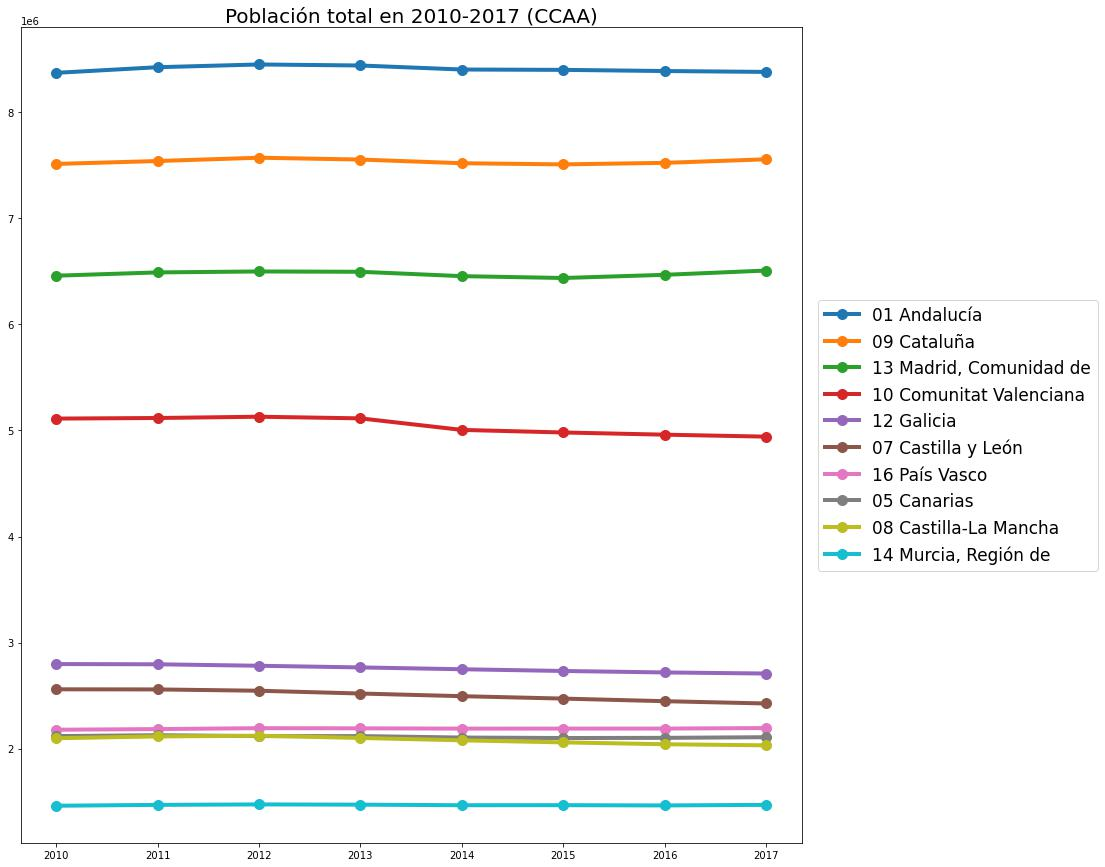
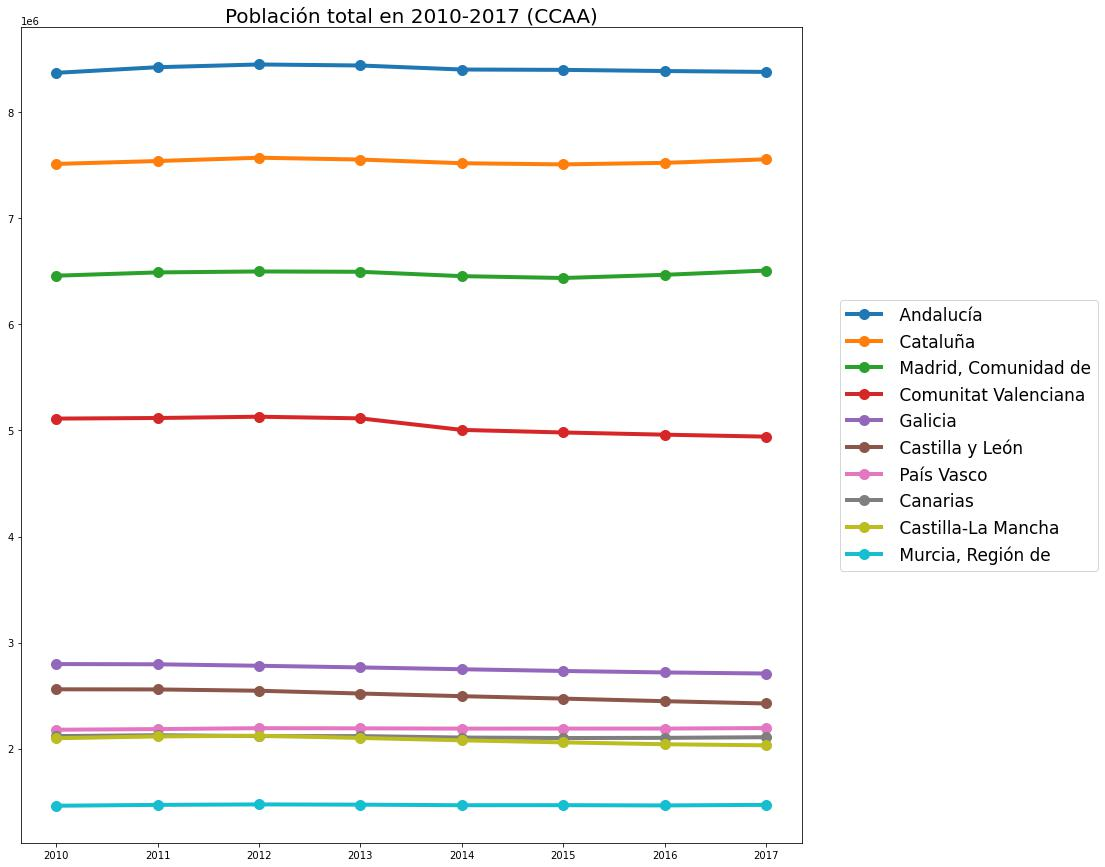
Minor changes in funciones: added margin in insert images function

Changed region(s): [[0.7385, 0.3426, 0.9846, 0.654]]

diff --git a/practicas/p1/poblacion/resultados/variacionComAutonomas.html b/practicas/p1/poblacion/resultados/variacionComAutonomas.html
@@ -14,4 +14,4 @@
         </th></tr><tr><tr><th scope="col"></th><th scope="col" colspan=7>
         Hombres</th><th scope="col" colspan=7>Mujeres</th>
         <th scope="col" colspan=7>Hombres</th>
-        <th scope="col" colspan=7>Mujeres</th></tr><tr><tr><th scope="col">Provincia</th><th>2017</th><th>2016</th><th>2015</th><th>2014</th><th>2013</th><th>2012</th><th>2011</th><th>2017</th><th>2016</th><th>2015</th><th>2014</th><th>2013</th><th>2012</th><th>2011</th><th>2017</th><th>2016</th><th>2015</th><th>2014</th><th>2013</th><th>2012</th><th>2011</th><th>2017</th><th>2016</th><th>2015</th><th>2014</th><th>2013</th><th>2012</th><th>2011</th><tr><th scope="row">01 Andalucía</th><td>-5,359.00</td><td>-5,338.00</td><td>-4,169.00</td><td>-21,953.00</td><td>-9,631.00</td><td>10,651.00</td><td>24,778.00</td><td>-2,928.00</td><td>-5,598.00</td><td>907.00</td><td>-16,042.00</td><td>-54.00</td><td>15,232.00</td><td>28,349.00</td><td>-0.13</td><td>-0.13</td><td>-0.10</td><td>-0.53</td><td>-0.23</td><td>0.26</td><td>0.60</td><td>-0.07</td><td>-0.13</td><td>0.02</td><td>-0.38</td><td>-0.00</td><td>0.36</td><td>0.67</td></tr><tr><th scope="row">09 Cataluña</th><td>12,832.00</td><td>5,623.00</td><td>-9,995.00</td><td>-23,578.00</td><td>-16,310.00</td><td>9,432.00</td><td>7,681.00</td><td>20,402.00</td><td>8,867.00</td><td>-802.00</td><td>-11,169.00</td><td>-948.00</td><td>21,858.00</td><td>19,556.00</td><td>0.35</td><td>0.15</td><td>-0.27</td><td>-0.63</td><td>-0.44</td><td>0.25</td><td>0.21</td><td>0.53</td><td>0.23</td><td>-0.02</td><td>-0.29</td><td>-0.02</td><td>0.57</td><td>0.52</td></tr><tr><th scope="row">13 Madrid, Comunidad de</th><td>16,891.00</td><td>11,609.00</td><td>-12,619.00</td><td>-24,083.00</td><td>-6,517.00</td><td>-2,603.00</td><td>8,406.00</td><td>23,297.00</td><td>18,391.00</td><td>-4,825.00</td><td>-17,028.00</td><td>3,508.00</td><td>11,483.00</td><td>22,590.00</td><td>0.55</td><td>0.38</td><td>-0.41</td><td>-0.77</td><td>-0.21</td><td>-0.08</td><td>0.27</td><td>0.69</td><td>0.55</td><td>-0.14</td><td>-0.51</td><td>0.10</td><td>0.34</td><td>0.68</td></tr><tr><th scope="row">10 Comunitat Valenciana</th><td>-12,545.00</td><td>-12,057.00</td><td>-14,276.00</td><td>-59,458.00</td><td>-11,865.00</td><td>4,624.00</td><td>-1,169.00</td><td>-5,914.00</td><td>-8,664.00</td><td>-9,879.00</td><td>-49,513.00</td><td>-3,586.00</td><td>7,452.00</td><td>6,653.00</td><td>-0.51</td><td>-0.49</td><td>-0.58</td><td>-2.35</td><td>-0.47</td><td>0.18</td><td>-0.05</td><td>-0.24</td><td>-0.34</td><td>-0.39</td><td>-1.92</td><td>-0.14</td><td>0.29</td><td>0.26</td></tr><tr><th scope="row">12 Galicia</th><td>-5,417.00</td><td>-7,245.00</td><td>-8,603.00</td><td>-9,465.00</td><td>-8,206.00</td><td>-6,263.00</td><td>-956.00</td><td>-4,769.00</td><td>-6,577.00</td><td>-7,745.00</td><td>-7,780.00</td><td>-7,352.00</td><td>-7,661.00</td><td>-1,275.00</td><td>-0.41</td><td>-0.55</td><td>-0.65</td><td>-0.71</td><td>-0.61</td><td>-0.46</td><td>-0.07</td><td>-0.34</td><td>-0.46</td><td>-0.54</td><td>-0.54</td><td>-0.51</td><td>-0.53</td><td>-0.09</td></tr><tr><th scope="row">07 Castilla y León</th><td>-11,524.00</td><td>-12,841.00</td><td>-12,634.00</td><td>-14,127.00</td><td>-14,764.00</td><td>-6,530.00</td><td>-1,189.00</td><td>-10,194.00</td><td>-11,692.00</td><td>-10,104.00</td><td>-10,958.00</td><td>-11,439.00</td><td>-5,855.00</td><td>137.00</td><td>-0.95</td><td>-1.05</td><td>-1.03</td><td>-1.13</td><td>-1.17</td><td>-0.52</td><td>-0.09</td><td>-0.82</td><td>-0.93</td><td>-0.80</td><td>-0.86</td><td>-0.89</td><td>-0.45</td><td>0.01</td></tr><tr><th scope="row">16 País Vasco</th><td>1,325.00</td><td>-345.00</td><td>-444.00</td><td>-2,377.00</td><td>-1,692.00</td><td>3,566.00</td><td>2,164.00</td><td>3,299.00</td><td>622.00</td><td>716.00</td><td>-320.00</td><td>281.00</td><td>4,921.00</td><td>4,103.00</td><td>0.12</td><td>-0.03</td><td>-0.04</td><td>-0.22</td><td>-0.16</td><td>0.33</td><td>0.20</td><td>0.29</td><td>0.06</td><td>0.06</td><td>-0.03</td><td>0.03</td><td>0.44</td><td>0.37</td></tr><tr><th scope="row">05 Canarias</th><td>2,275.00</td><td>-365.00</td><td>-3,170.00</td><td>-8,929.00</td><td>-938.00</td><td>-5,351.00</td><td>2,885.00</td><td>3,922.00</td><td>1,983.00</td><td>-1,339.00</td><td>-4,935.00</td><td>1,273.00</td><td>-3,074.00</td><td>5,365.00</td><td>0.22</td><td>-0.03</td><td>-0.30</td><td>-0.85</td><td>-0.09</td><td>-0.50</td><td>0.27</td><td>0.37</td><td>0.19</td><td>-0.13</td><td>-0.46</td><td>0.12</td><td>-0.29</td><td>0.51</td></tr><tr><th scope="row">08 Castilla-La Mancha</th><td>-5,961.00</td><td>-9,951.00</td><td>-11,207.00</td><td>-13,080.00</td><td>-12,688.00</td><td>3,050.00</td><td>7,449.00</td><td>-4,191.00</td><td>-7,609.00</td><td>-8,213.00</td><td>-9,307.00</td><td>-8,202.00</td><td>3,504.00</td><td>9,512.00</td><td>-0.58</td><td>-0.96</td><td>-1.07</td><td>-1.24</td><td>-1.19</td><td>0.29</td><td>0.70</td><td>-0.41</td><td>-0.74</td><td>-0.79</td><td>-0.89</td><td>-0.78</td><td>0.33</td><td>0.92</td></tr><tr><th scope="row">14 Murcia, Región de</th><td>2,683.00</td><td>-1,879.00</td><td>-455.00</td><td>-3,953.00</td><td>-2,885.00</td><td>1,146.00</td><td>2,954.00</td><td>2,743.00</td><td>-562.00</td><td>925.00</td><td>-1,278.00</td><td>485.00</td><td>3,234.00</td><td>5,136.00</td><td>0.37</td><td>-0.26</td><td>-0.06</td><td>-0.53</td><td>-0.39</td><td>0.15</td><td>0.40</td><td>0.38</td><td>-0.08</td><td>0.13</td><td>-0.17</td><td>0.07</td><td>0.44</td><td>0.71</td></tr><tr><th scope="row">02 Aragón</th><td>-1,311.00</td><td>-5,481.00</td><td>-4,277.00</td><td>-13,023.00</td><td>-1,911.00</td><td>612.00</td><td>-1,891.00</td><td>1,498.00</td><td>-3,803.00</td><td>-3,261.00</td><td>-8,742.00</td><td>-406.00</td><td>2,562.00</td><td>1,089.00</td><td>-0.20</td><td>-0.84</td><td>-0.65</td><td>-1.94</td><td>-0.28</td><td>0.09</td><td>-0.28</td><td>0.23</td><td>-0.57</td><td>-0.49</td><td>-1.29</td><td>-0.06</td><td>0.38</td><td>0.16</td></tr><tr><th scope="row">04 Balears, Illes</th><td>4,243.00</td><td>1,004.00</td><td>-123.00</td><td>-4,802.00</td><td>-5,488.00</td><td>2,514.00</td><td>2,373.00</td><td>4,536.00</td><td>1,737.00</td><td>1,160.00</td><td>-3,430.00</td><td>-2,277.00</td><td>3,811.00</td><td>4,692.00</td><td>0.77</td><td>0.18</td><td>-0.02</td><td>-0.87</td><td>-0.98</td><td>0.45</td><td>0.43</td><td>0.82</td><td>0.31</td><td>0.21</td><td>-0.62</td><td>-0.41</td><td>0.69</td><td>0.85</td></tr><tr><th scope="row">11 Extremadura</th><td>-4,179.00</td><td>-2,839.00</td><td>-3,538.00</td><td>-2,438.00</td><td>-2,270.00</td><td>-540.00</td><td>1,143.00</td><td>-3,679.00</td><td>-2,380.00</td><td>-3,097.00</td><td>-1,934.00</td><td>-1,856.00</td><td>-697.00</td><td>1,004.00</td><td>-0.77</td><td>-0.52</td><td>-0.65</td><td>-0.44</td><td>-0.41</td><td>-0.10</td><td>0.21</td><td>-0.67</td><td>-0.43</td><td>-0.56</td><td>-0.35</td><td>-0.33</td><td>-0.12</td><td>0.18</td></tr><tr><th scope="row">03 Asturias, Principado de</th><td>-3,941.00</td><td>-4,323.00</td><td>-5,752.00</td><td>-3,419.00</td><td>-5,074.00</td><td>-2,151.00</td><td>-1,831.00</td><td>-3,707.00</td><td>-4,298.00</td><td>-4,775.00</td><td>-2,990.00</td><td>-4,121.00</td><td>-1,976.00</td><td>-1,023.00</td><td>-0.79</td><td>-0.86</td><td>-1.13</td><td>-0.67</td><td>-0.98</td><td>-0.41</td><td>-0.35</td><td>-0.68</td><td>-0.78</td><td>-0.86</td><td>-0.54</td><td>-0.73</td><td>-0.35</td><td>-0.18</td></tr><tr><th scope="row">15 Navarra, Comunidad Foral de</th><td>831.00</td><td>-45.00</td><td>-601.00</td><td>-2,447.00</td><td>-520.00</td><td>797.00</td><td>2,233.00</td><td>1,756.00</td><td>216.00</td><td>287.00</td><td>-1,240.00</td><td>431.00</td><td>1,718.00</td><td>2,894.00</td><td>0.26</td><td>-0.01</td><td>-0.19</td><td>-0.76</td><td>-0.16</td><td>0.25</td><td>0.70</td><td>0.54</td><td>0.07</td><td>0.09</td><td>-0.38</td><td>0.13</td><td>0.53</td><td>0.91</td></tr><tr><th scope="row">06 Cantabria</th><td>-1,180.00</td><td>-1,800.00</td><td>-1,994.00</td><td>-1,861.00</td><td>-1,356.00</td><td>127.00</td><td>-59.00</td><td>-731.00</td><td>-1,173.00</td><td>-1,483.00</td><td>-1,371.00</td><td>-617.00</td><td>613.00</td><td>930.00</td><td>-0.42</td><td>-0.63</td><td>-0.70</td><td>-0.64</td><td>-0.47</td><td>0.04</td><td>-0.02</td><td>-0.24</td><td>-0.39</td><td>-0.49</td><td>-0.45</td><td>-0.20</td><td>0.20</td><td>0.31</td></tr><tr><th scope="row">17 Rioja, La</th><td>-461.00</td><td>-764.00</td><td>-1,357.00</td><td>-2,069.00</td><td>-1,415.00</td><td>-8.00</td><td>-302.00</td><td>48.00</td><td>-495.00</td><td>-592.00</td><td>-956.00</td><td>-167.00</td><td>662.00</td><td>842.00</td><td>-0.30</td><td>-0.49</td><td>-0.86</td><td>-1.29</td><td>-0.88</td><td>-0.00</td><td>-0.19</td><td>0.03</td><td>-0.31</td><td>-0.37</td><td>-0.59</td><td>-0.10</td><td>0.41</td><td>0.52</td></tr><tr><th scope="row">18 Ceuta</th><td>188.00</td><td>89.00</td><td>-597.00</td><td>294.00</td><td>112.00</td><td>783.00</td><td>896.00</td><td>252.00</td><td>167.00</td><td>-103.00</td><td>489.00</td><td>50.00</td><td>859.00</td><td>901.00</td><td>0.44</td><td>0.21</td><td>-1.38</td><td>0.68</td><td>0.26</td><td>1.86</td><td>2.17</td><td>0.60</td><td>0.40</td><td>-0.25</td><td>1.19</td><td>0.12</td><td>2.14</td><td>2.29</td></tr><tr><th scope="row">19 Melilla</th><td>-139.00</td><td>175.00</td><td>518.00</td><td>58.00</td><td>1,448.00</td><td>1,313.00</td><td>1,437.00</td><td>233.00</td><td>267.00</td><td>557.00</td><td>772.00</td><td>1,429.00</td><td>1,013.00</td><td>1,005.00</td><td>-0.32</td><td>0.40</td><td>1.20</td><td>0.13</td><td>3.48</td><td>3.26</td><td>3.70</td><td>0.55</td><td>0.64</td><td>1.34</td><td>1.90</td><td>3.64</td><td>2.65</td><td>2.70</td></tr></tbody></table><img src="../imagenes/R5.jpg" style="display: block; margin: 0 auto;"></body></html>
+        <th scope="col" colspan=7>Mujeres</th></tr><tr><tr><th scope="col">Provincia</th><th>2017</th><th>2016</th><th>2015</th><th>2014</th><th>2013</th><th>2012</th><th>2011</th><th>2017</th><th>2016</th><th>2015</th><th>2014</th><th>2013</th><th>2012</th><th>2011</th><th>2017</th><th>2016</th><th>2015</th><th>2014</th><th>2013</th><th>2012</th><th>2011</th><th>2017</th><th>2016</th><th>2015</th><th>2014</th><th>2013</th><th>2012</th><th>2011</th><tr><th scope="row"> Andalucía</th><td>-5,359.00</td><td>-5,338.00</td><td>-4,169.00</td><td>-21,953.00</td><td>-9,631.00</td><td>10,651.00</td><td>24,778.00</td><td>-2,928.00</td><td>-5,598.00</td><td>907.00</td><td>-16,042.00</td><td>-54.00</td><td>15,232.00</td><td>28,349.00</td><td>-0.13</td><td>-0.13</td><td>-0.10</td><td>-0.53</td><td>-0.23</td><td>0.26</td><td>0.60</td><td>-0.07</td><td>-0.13</td><td>0.02</td><td>-0.38</td><td>-0.00</td><td>0.36</td><td>0.67</td></tr><tr><th scope="row"> Cataluña</th><td>12,832.00</td><td>5,623.00</td><td>-9,995.00</td><td>-23,578.00</td><td>-16,310.00</td><td>9,432.00</td><td>7,681.00</td><td>20,402.00</td><td>8,867.00</td><td>-802.00</td><td>-11,169.00</td><td>-948.00</td><td>21,858.00</td><td>19,556.00</td><td>0.35</td><td>0.15</td><td>-0.27</td><td>-0.63</td><td>-0.44</td><td>0.25</td><td>0.21</td><td>0.53</td><td>0.23</td><td>-0.02</td><td>-0.29</td><td>-0.02</td><td>0.57</td><td>0.52</td></tr><tr><th scope="row"> Madrid, Comunidad de</th><td>16,891.00</td><td>11,609.00</td><td>-12,619.00</td><td>-24,083.00</td><td>-6,517.00</td><td>-2,603.00</td><td>8,406.00</td><td>23,297.00</td><td>18,391.00</td><td>-4,825.00</td><td>-17,028.00</td><td>3,508.00</td><td>11,483.00</td><td>22,590.00</td><td>0.55</td><td>0.38</td><td>-0.41</td><td>-0.77</td><td>-0.21</td><td>-0.08</td><td>0.27</td><td>0.69</td><td>0.55</td><td>-0.14</td><td>-0.51</td><td>0.10</td><td>0.34</td><td>0.68</td></tr><tr><th scope="row"> Comunitat Valenciana</th><td>-12,545.00</td><td>-12,057.00</td><td>-14,276.00</td><td>-59,458.00</td><td>-11,865.00</td><td>4,624.00</td><td>-1,169.00</td><td>-5,914.00</td><td>-8,664.00</td><td>-9,879.00</td><td>-49,513.00</td><td>-3,586.00</td><td>7,452.00</td><td>6,653.00</td><td>-0.51</td><td>-0.49</td><td>-0.58</td><td>-2.35</td><td>-0.47</td><td>0.18</td><td>-0.05</td><td>-0.24</td><td>-0.34</td><td>-0.39</td><td>-1.92</td><td>-0.14</td><td>0.29</td><td>0.26</td></tr><tr><th scope="row"> Galicia</th><td>-5,417.00</td><td>-7,245.00</td><td>-8,603.00</td><td>-9,465.00</td><td>-8,206.00</td><td>-6,263.00</td><td>-956.00</td><td>-4,769.00</td><td>-6,577.00</td><td>-7,745.00</td><td>-7,780.00</td><td>-7,352.00</td><td>-7,661.00</td><td>-1,275.00</td><td>-0.41</td><td>-0.55</td><td>-0.65</td><td>-0.71</td><td>-0.61</td><td>-0.46</td><td>-0.07</td><td>-0.34</td><td>-0.46</td><td>-0.54</td><td>-0.54</td><td>-0.51</td><td>-0.53</td><td>-0.09</td></tr><tr><th scope="row"> Castilla y León</th><td>-11,524.00</td><td>-12,841.00</td><td>-12,634.00</td><td>-14,127.00</td><td>-14,764.00</td><td>-6,530.00</td><td>-1,189.00</td><td>-10,194.00</td><td>-11,692.00</td><td>-10,104.00</td><td>-10,958.00</td><td>-11,439.00</td><td>-5,855.00</td><td>137.00</td><td>-0.95</td><td>-1.05</td><td>-1.03</td><td>-1.13</td><td>-1.17</td><td>-0.52</td><td>-0.09</td><td>-0.82</td><td>-0.93</td><td>-0.80</td><td>-0.86</td><td>-0.89</td><td>-0.45</td><td>0.01</td></tr><tr><th scope="row"> País Vasco</th><td>1,325.00</td><td>-345.00</td><td>-444.00</td><td>-2,377.00</td><td>-1,692.00</td><td>3,566.00</td><td>2,164.00</td><td>3,299.00</td><td>622.00</td><td>716.00</td><td>-320.00</td><td>281.00</td><td>4,921.00</td><td>4,103.00</td><td>0.12</td><td>-0.03</td><td>-0.04</td><td>-0.22</td><td>-0.16</td><td>0.33</td><td>0.20</td><td>0.29</td><td>0.06</td><td>0.06</td><td>-0.03</td><td>0.03</td><td>0.44</td><td>0.37</td></tr><tr><th scope="row"> Canarias</th><td>2,275.00</td><td>-365.00</td><td>-3,170.00</td><td>-8,929.00</td><td>-938.00</td><td>-5,351.00</td><td>2,885.00</td><td>3,922.00</td><td>1,983.00</td><td>-1,339.00</td><td>-4,935.00</td><td>1,273.00</td><td>-3,074.00</td><td>5,365.00</td><td>0.22</td><td>-0.03</td><td>-0.30</td><td>-0.85</td><td>-0.09</td><td>-0.50</td><td>0.27</td><td>0.37</td><td>0.19</td><td>-0.13</td><td>-0.46</td><td>0.12</td><td>-0.29</td><td>0.51</td></tr><tr><th scope="row"> Castilla-La Mancha</th><td>-5,961.00</td><td>-9,951.00</td><td>-11,207.00</td><td>-13,080.00</td><td>-12,688.00</td><td>3,050.00</td><td>7,449.00</td><td>-4,191.00</td><td>-7,609.00</td><td>-8,213.00</td><td>-9,307.00</td><td>-8,202.00</td><td>3,504.00</td><td>9,512.00</td><td>-0.58</td><td>-0.96</td><td>-1.07</td><td>-1.24</td><td>-1.19</td><td>0.29</td><td>0.70</td><td>-0.41</td><td>-0.74</td><td>-0.79</td><td>-0.89</td><td>-0.78</td><td>0.33</td><td>0.92</td></tr><tr><th scope="row"> Murcia, Región de</th><td>2,683.00</td><td>-1,879.00</td><td>-455.00</td><td>-3,953.00</td><td>-2,885.00</td><td>1,146.00</td><td>2,954.00</td><td>2,743.00</td><td>-562.00</td><td>925.00</td><td>-1,278.00</td><td>485.00</td><td>3,234.00</td><td>5,136.00</td><td>0.37</td><td>-0.26</td><td>-0.06</td><td>-0.53</td><td>-0.39</td><td>0.15</td><td>0.40</td><td>0.38</td><td>-0.08</td><td>0.13</td><td>-0.17</td><td>0.07</td><td>0.44</td><td>0.71</td></tr><tr><th scope="row"> Aragón</th><td>-1,311.00</td><td>-5,481.00</td><td>-4,277.00</td><td>-13,023.00</td><td>-1,911.00</td><td>612.00</td><td>-1,891.00</td><td>1,498.00</td><td>-3,803.00</td><td>-3,261.00</td><td>-8,742.00</td><td>-406.00</td><td>2,562.00</td><td>1,089.00</td><td>-0.20</td><td>-0.84</td><td>-0.65</td><td>-1.94</td><td>-0.28</td><td>0.09</td><td>-0.28</td><td>0.23</td><td>-0.57</td><td>-0.49</td><td>-1.29</td><td>-0.06</td><td>0.38</td><td>0.16</td></tr><tr><th scope="row"> Balears, Illes</th><td>4,243.00</td><td>1,004.00</td><td>-123.00</td><td>-4,802.00</td><td>-5,488.00</td><td>2,514.00</td><td>2,373.00</td><td>4,536.00</td><td>1,737.00</td><td>1,160.00</td><td>-3,430.00</td><td>-2,277.00</td><td>3,811.00</td><td>4,692.00</td><td>0.77</td><td>0.18</td><td>-0.02</td><td>-0.87</td><td>-0.98</td><td>0.45</td><td>0.43</td><td>0.82</td><td>0.31</td><td>0.21</td><td>-0.62</td><td>-0.41</td><td>0.69</td><td>0.85</td></tr><tr><th scope="row"> Extremadura</th><td>-4,179.00</td><td>-2,839.00</td><td>-3,538.00</td><td>-2,438.00</td><td>-2,270.00</td><td>-540.00</td><td>1,143.00</td><td>-3,679.00</td><td>-2,380.00</td><td>-3,097.00</td><td>-1,934.00</td><td>-1,856.00</td><td>-697.00</td><td>1,004.00</td><td>-0.77</td><td>-0.52</td><td>-0.65</td><td>-0.44</td><td>-0.41</td><td>-0.10</td><td>0.21</td><td>-0.67</td><td>-0.43</td><td>-0.56</td><td>-0.35</td><td>-0.33</td><td>-0.12</td><td>0.18</td></tr><tr><th scope="row"> Asturias, Principado de</th><td>-3,941.00</td><td>-4,323.00</td><td>-5,752.00</td><td>-3,419.00</td><td>-5,074.00</td><td>-2,151.00</td><td>-1,831.00</td><td>-3,707.00</td><td>-4,298.00</td><td>-4,775.00</td><td>-2,990.00</td><td>-4,121.00</td><td>-1,976.00</td><td>-1,023.00</td><td>-0.79</td><td>-0.86</td><td>-1.13</td><td>-0.67</td><td>-0.98</td><td>-0.41</td><td>-0.35</td><td>-0.68</td><td>-0.78</td><td>-0.86</td><td>-0.54</td><td>-0.73</td><td>-0.35</td><td>-0.18</td></tr><tr><th scope="row"> Navarra, Comunidad Foral de</th><td>831.00</td><td>-45.00</td><td>-601.00</td><td>-2,447.00</td><td>-520.00</td><td>797.00</td><td>2,233.00</td><td>1,756.00</td><td>216.00</td><td>287.00</td><td>-1,240.00</td><td>431.00</td><td>1,718.00</td><td>2,894.00</td><td>0.26</td><td>-0.01</td><td>-0.19</td><td>-0.76</td><td>-0.16</td><td>0.25</td><td>0.70</td><td>0.54</td><td>0.07</td><td>0.09</td><td>-0.38</td><td>0.13</td><td>0.53</td><td>0.91</td></tr><tr><th scope="row"> Cantabria</th><td>-1,180.00</td><td>-1,800.00</td><td>-1,994.00</td><td>-1,861.00</td><td>-1,356.00</td><td>127.00</td><td>-59.00</td><td>-731.00</td><td>-1,173.00</td><td>-1,483.00</td><td>-1,371.00</td><td>-617.00</td><td>613.00</td><td>930.00</td><td>-0.42</td><td>-0.63</td><td>-0.70</td><td>-0.64</td><td>-0.47</td><td>0.04</td><td>-0.02</td><td>-0.24</td><td>-0.39</td><td>-0.49</td><td>-0.45</td><td>-0.20</td><td>0.20</td><td>0.31</td></tr><tr><th scope="row"> Rioja, La</th><td>-461.00</td><td>-764.00</td><td>-1,357.00</td><td>-2,069.00</td><td>-1,415.00</td><td>-8.00</td><td>-302.00</td><td>48.00</td><td>-495.00</td><td>-592.00</td><td>-956.00</td><td>-167.00</td><td>662.00</td><td>842.00</td><td>-0.30</td><td>-0.49</td><td>-0.86</td><td>-1.29</td><td>-0.88</td><td>-0.00</td><td>-0.19</td><td>0.03</td><td>-0.31</td><td>-0.37</td><td>-0.59</td><td>-0.10</td><td>0.41</td><td>0.52</td></tr><tr><th scope="row"> Ceuta</th><td>188.00</td><td>89.00</td><td>-597.00</td><td>294.00</td><td>112.00</td><td>783.00</td><td>896.00</td><td>252.00</td><td>167.00</td><td>-103.00</td><td>489.00</td><td>50.00</td><td>859.00</td><td>901.00</td><td>0.44</td><td>0.21</td><td>-1.38</td><td>0.68</td><td>0.26</td><td>1.86</td><td>2.17</td><td>0.60</td><td>0.40</td><td>-0.25</td><td>1.19</td><td>0.12</td><td>2.14</td><td>2.29</td></tr><tr><th scope="row"> Melilla</th><td>-139.00</td><td>175.00</td><td>518.00</td><td>58.00</td><td>1,448.00</td><td>1,313.00</td><td>1,437.00</td><td>233.00</td><td>267.00</td><td>557.00</td><td>772.00</td><td>1,429.00</td><td>1,013.00</td><td>1,005.00</td><td>-0.32</td><td>0.40</td><td>1.20</td><td>0.13</td><td>3.48</td><td>3.26</td><td>3.70</td><td>0.55</td><td>0.64</td><td>1.34</td><td>1.90</td><td>3.64</td><td>2.65</td><td>2.70</td></tr></tbody></table><img src="../imagenes/R5.jpg" style="display: block; margin: 50px auto;"></body></html>

diff --git a/practicas/p1/poblacion/resultados/poblacionComAutonomas.html b/practicas/p1/poblacion/resultados/poblacionComAutonomas.html
@@ -12,4 +12,4 @@
         <tbody><tr><th scope="col" rowspan=2>CCAA</th>
         <th scope="col" colspan=8>Total</th>
         <th scope="col" colspan=8>Hombres</th>
-        <th scope="col" colspan=8>Mujeres</th></tr><tr><th>2017</th><th>2016</th><th>2015</th><th>2014</th><th>2013</th><th>2012</th><th>2011</th><th>2010</th><th>2017</th><th>2016</th><th>2015</th><th>2014</th><th>2013</th><th>2012</th><th>2011</th><th>2010</th><th>2017</th><th>2016</th><th>2015</th><th>2014</th><th>2013</th><th>2012</th><th>2011</th><th>2010</th><tr><th scope="row">01 Andalucía</th><td>8,379,820</td><td>8,388,107</td><td>8,399,043</td><td>8,402,305</td><td>8,440,300</td><td>8,449,985</td><td>8,424,102</td><td>8,370,975</td><td>4,133,835</td><td>4,139,194</td><td>4,144,532</td><td>4,148,701</td><td>4,170,654</td><td>4,180,285</td><td>4,169,634</td><td>4,144,856</td><td>4,245,985</td><td>4,248,913</td><td>4,254,511</td><td>4,253,604</td><td>4,269,646</td><td>4,269,700</td><td>4,254,468</td><td>4,226,119</td></tr><tr><th scope="row">02 Aragón</th><td>1,308,750</td><td>1,308,563</td><td>1,317,847</td><td>1,325,385</td><td>1,347,150</td><td>1,349,467</td><td>1,346,293</td><td>1,347,095</td><td>645,895</td><td>647,206</td><td>652,687</td><td>656,964</td><td>669,987</td><td>671,898</td><td>671,286</td><td>673,177</td><td>662,855</td><td>661,357</td><td>665,160</td><td>668,421</td><td>677,163</td><td>677,569</td><td>675,007</td><td>673,918</td></tr><tr><th scope="row">03 Asturias, Principado de</th><td>1,034,960</td><td>1,042,608</td><td>1,051,229</td><td>1,061,756</td><td>1,068,165</td><td>1,077,360</td><td>1,081,487</td><td>1,084,341</td><td>493,911</td><td>497,852</td><td>502,175</td><td>507,927</td><td>511,346</td><td>516,420</td><td>518,571</td><td>520,402</td><td>541,049</td><td>544,756</td><td>549,054</td><td>553,829</td><td>556,819</td><td>560,940</td><td>562,916</td><td>563,939</td></tr><tr><th scope="row">04 Balears, Illes</th><td>1,115,999</td><td>1,107,220</td><td>1,104,479</td><td>1,103,442</td><td>1,111,674</td><td>1,119,439</td><td>1,113,114</td><td>1,106,049</td><td>554,925</td><td>550,682</td><td>549,678</td><td>549,801</td><td>554,603</td><td>560,091</td><td>557,577</td><td>555,204</td><td>561,074</td><td>556,538</td><td>554,801</td><td>553,641</td><td>557,071</td><td>559,348</td><td>555,537</td><td>550,845</td></tr><tr><th scope="row">05 Canarias</th><td>2,108,121</td><td>2,101,924</td><td>2,100,306</td><td>2,104,815</td><td>2,118,679</td><td>2,118,344</td><td>2,126,769</td><td>2,118,519</td><td>1,045,113</td><td>1,042,838</td><td>1,043,203</td><td>1,046,373</td><td>1,055,302</td><td>1,056,240</td><td>1,061,591</td><td>1,058,706</td><td>1,063,008</td><td>1,059,086</td><td>1,057,103</td><td>1,058,442</td><td>1,063,377</td><td>1,062,104</td><td>1,065,178</td><td>1,059,813</td></tr><tr><th scope="row">06 Cantabria</th><td>580,295</td><td>582,206</td><td>585,179</td><td>588,656</td><td>591,888</td><td>593,861</td><td>593,121</td><td>592,250</td><td>281,808</td><td>282,988</td><td>284,788</td><td>286,782</td><td>288,643</td><td>289,999</td><td>289,872</td><td>289,931</td><td>298,487</td><td>299,218</td><td>300,391</td><td>301,874</td><td>303,245</td><td>303,862</td><td>303,249</td><td>302,319</td></tr><tr><th scope="row">07 Castilla y León</th><td>2,425,801</td><td>2,447,519</td><td>2,472,052</td><td>2,494,790</td><td>2,519,875</td><td>2,546,078</td><td>2,558,463</td><td>2,559,515</td><td>1,195,251</td><td>1,206,775</td><td>1,219,616</td><td>1,232,250</td><td>1,246,377</td><td>1,261,141</td><td>1,267,671</td><td>1,268,860</td><td>1,230,550</td><td>1,240,744</td><td>1,252,436</td><td>1,262,540</td><td>1,273,498</td><td>1,284,937</td><td>1,290,792</td><td>1,290,655</td></tr><tr><th scope="row">08 Castilla-La Mancha</th><td>2,031,479</td><td>2,041,631</td><td>2,059,191</td><td>2,078,611</td><td>2,100,998</td><td>2,121,888</td><td>2,115,334</td><td>2,098,373</td><td>1,016,761</td><td>1,022,722</td><td>1,032,673</td><td>1,043,880</td><td>1,056,960</td><td>1,069,648</td><td>1,066,598</td><td>1,059,149</td><td>1,014,718</td><td>1,018,909</td><td>1,026,518</td><td>1,034,731</td><td>1,044,038</td><td>1,052,240</td><td>1,048,736</td><td>1,039,224</td></tr><tr><th scope="row">09 Cataluña</th><td>7,555,830</td><td>7,522,596</td><td>7,508,106</td><td>7,518,903</td><td>7,553,650</td><td>7,570,908</td><td>7,539,618</td><td>7,512,381</td><td>3,710,200</td><td>3,697,368</td><td>3,691,745</td><td>3,701,740</td><td>3,725,318</td><td>3,741,628</td><td>3,732,196</td><td>3,724,515</td><td>3,845,630</td><td>3,825,228</td><td>3,816,361</td><td>3,817,163</td><td>3,828,332</td><td>3,829,280</td><td>3,807,422</td><td>3,787,866</td></tr><tr><th scope="row">10 Comunitat Valenciana</th><td>4,941,509</td><td>4,959,968</td><td>4,980,689</td><td>5,004,844</td><td>5,113,815</td><td>5,129,266</td><td>5,117,190</td><td>5,111,706</td><td>2,436,203</td><td>2,448,748</td><td>2,460,805</td><td>2,475,081</td><td>2,534,539</td><td>2,546,404</td><td>2,541,780</td><td>2,542,949</td><td>2,505,306</td><td>2,511,220</td><td>2,519,884</td><td>2,529,763</td><td>2,579,276</td><td>2,582,862</td><td>2,575,410</td><td>2,568,757</td></tr><tr><th scope="row">11 Extremadura</th><td>1,079,920</td><td>1,087,778</td><td>1,092,997</td><td>1,099,632</td><td>1,104,004</td><td>1,108,130</td><td>1,109,367</td><td>1,107,220</td><td>535,060</td><td>539,239</td><td>542,078</td><td>545,616</td><td>548,054</td><td>550,324</td><td>550,864</td><td>549,721</td><td>544,860</td><td>548,539</td><td>550,919</td><td>554,016</td><td>555,950</td><td>557,806</td><td>558,503</td><td>557,499</td></tr><tr><th scope="row">12 Galicia</th><td>2,708,339</td><td>2,718,525</td><td>2,732,347</td><td>2,748,695</td><td>2,765,940</td><td>2,781,498</td><td>2,795,422</td><td>2,797,653</td><td>1,304,392</td><td>1,309,809</td><td>1,317,054</td><td>1,325,657</td><td>1,335,122</td><td>1,343,328</td><td>1,349,591</td><td>1,350,547</td><td>1,403,947</td><td>1,408,716</td><td>1,415,293</td><td>1,423,038</td><td>1,430,818</td><td>1,438,170</td><td>1,445,831</td><td>1,447,106</td></tr><tr><th scope="row">13 Madrid, Comunidad de</th><td>6,507,184</td><td>6,466,996</td><td>6,436,996</td><td>6,454,440</td><td>6,495,551</td><td>6,498,560</td><td>6,489,680</td><td>6,458,684</td><td>3,115,522</td><td>3,098,631</td><td>3,087,022</td><td>3,099,641</td><td>3,123,724</td><td>3,130,241</td><td>3,132,844</td><td>3,124,438</td><td>3,391,662</td><td>3,368,365</td><td>3,349,974</td><td>3,354,799</td><td>3,371,827</td><td>3,368,319</td><td>3,356,836</td><td>3,334,246</td></tr><tr><th scope="row">14 Murcia, Región de</th><td>1,470,273</td><td>1,464,847</td><td>1,467,288</td><td>1,466,818</td><td>1,472,049</td><td>1,474,449</td><td>1,470,069</td><td>1,461,979</td><td>736,238</td><td>733,555</td><td>735,434</td><td>735,889</td><td>739,842</td><td>742,727</td><td>741,581</td><td>738,627</td><td>734,035</td><td>731,292</td><td>731,854</td><td>730,929</td><td>732,207</td><td>731,722</td><td>728,488</td><td>723,352</td></tr><tr><th scope="row">15 Navarra, Comunidad Foral de</th><td>643,234</td><td>640,647</td><td>640,476</td><td>640,790</td><td>644,477</td><td>644,566</td><td>642,051</td><td>636,924</td><td>318,671</td><td>317,840</td><td>317,885</td><td>318,486</td><td>320,933</td><td>321,453</td><td>320,656</td><td>318,423</td><td>324,563</td><td>322,807</td><td>322,591</td><td>322,304</td><td>323,544</td><td>323,113</td><td>321,395</td><td>318,501</td></tr><tr><th scope="row">16 País Vasco</th><td>2,194,158</td><td>2,189,534</td><td>2,189,257</td><td>2,188,985</td><td>2,191,682</td><td>2,193,093</td><td>2,184,606</td><td>2,178,339</td><td>1,066,905</td><td>1,065,580</td><td>1,065,925</td><td>1,066,369</td><td>1,068,746</td><td>1,070,438</td><td>1,066,872</td><td>1,064,708</td><td>1,127,253</td><td>1,123,954</td><td>1,123,332</td><td>1,122,616</td><td>1,122,936</td><td>1,122,655</td><td>1,117,734</td><td>1,113,631</td></tr><tr><th scope="row">17 Rioja, La</th><td>315,381</td><td>315,794</td><td>317,053</td><td>319,002</td><td>322,027</td><td>323,609</td><td>322,955</td><td>322,415</td><td>155,508</td><td>155,969</td><td>156,733</td><td>158,090</td><td>160,159</td><td>161,574</td><td>161,582</td><td>161,884</td><td>159,873</td><td>159,825</td><td>160,320</td><td>160,912</td><td>161,868</td><td>162,035</td><td>161,373</td><td>160,531</td></tr><tr><th scope="row">18 Ceuta</th><td>84,959</td><td>84,519</td><td>84,263</td><td>84,963</td><td>84,180</td><td>84,018</td><td>82,376</td><td>80,579</td><td>43,034</td><td>42,846</td><td>42,757</td><td>43,354</td><td>43,060</td><td>42,948</td><td>42,165</td><td>41,269</td><td>41,925</td><td>41,673</td><td>41,506</td><td>41,609</td><td>41,120</td><td>41,070</td><td>40,211</td><td>39,310</td></tr><tr><th scope="row">19 Melilla</th><td>86,120</td><td>86,026</td><td>85,584</td><td>84,509</td><td>83,679</td><td>80,802</td><td>78,476</td><td>76,034</td><td>43,629</td><td>43,768</td><td>43,593</td><td>43,075</td><td>43,017</td><td>41,569</td><td>40,256</td><td>38,819</td><td>42,491</td><td>42,258</td><td>41,991</td><td>41,434</td><td>40,662</td><td>39,233</td><td>38,220</td><td>37,215</td></tr></tbody></table><img src="../imagenes/R3.jpg" style="display: block; margin: 0 auto;"></body></html>
+        <th scope="col" colspan=8>Mujeres</th></tr><tr><th>2017</th><th>2016</th><th>2015</th><th>2014</th><th>2013</th><th>2012</th><th>2011</th><th>2010</th><th>2017</th><th>2016</th><th>2015</th><th>2014</th><th>2013</th><th>2012</th><th>2011</th><th>2010</th><th>2017</th><th>2016</th><th>2015</th><th>2014</th><th>2013</th><th>2012</th><th>2011</th><th>2010</th><tr><th scope="row">01 Andalucía</th><td>8,379,820</td><td>8,388,107</td><td>8,399,043</td><td>8,402,305</td><td>8,440,300</td><td>8,449,985</td><td>8,424,102</td><td>8,370,975</td><td>4,133,835</td><td>4,139,194</td><td>4,144,532</td><td>4,148,701</td><td>4,170,654</td><td>4,180,285</td><td>4,169,634</td><td>4,144,856</td><td>4,245,985</td><td>4,248,913</td><td>4,254,511</td><td>4,253,604</td><td>4,269,646</td><td>4,269,700</td><td>4,254,468</td><td>4,226,119</td></tr><tr><th scope="row">02 Aragón</th><td>1,308,750</td><td>1,308,563</td><td>1,317,847</td><td>1,325,385</td><td>1,347,150</td><td>1,349,467</td><td>1,346,293</td><td>1,347,095</td><td>645,895</td><td>647,206</td><td>652,687</td><td>656,964</td><td>669,987</td><td>671,898</td><td>671,286</td><td>673,177</td><td>662,855</td><td>661,357</td><td>665,160</td><td>668,421</td><td>677,163</td><td>677,569</td><td>675,007</td><td>673,918</td></tr><tr><th scope="row">03 Asturias, Principado de</th><td>1,034,960</td><td>1,042,608</td><td>1,051,229</td><td>1,061,756</td><td>1,068,165</td><td>1,077,360</td><td>1,081,487</td><td>1,084,341</td><td>493,911</td><td>497,852</td><td>502,175</td><td>507,927</td><td>511,346</td><td>516,420</td><td>518,571</td><td>520,402</td><td>541,049</td><td>544,756</td><td>549,054</td><td>553,829</td><td>556,819</td><td>560,940</td><td>562,916</td><td>563,939</td></tr><tr><th scope="row">04 Balears, Illes</th><td>1,115,999</td><td>1,107,220</td><td>1,104,479</td><td>1,103,442</td><td>1,111,674</td><td>1,119,439</td><td>1,113,114</td><td>1,106,049</td><td>554,925</td><td>550,682</td><td>549,678</td><td>549,801</td><td>554,603</td><td>560,091</td><td>557,577</td><td>555,204</td><td>561,074</td><td>556,538</td><td>554,801</td><td>553,641</td><td>557,071</td><td>559,348</td><td>555,537</td><td>550,845</td></tr><tr><th scope="row">05 Canarias</th><td>2,108,121</td><td>2,101,924</td><td>2,100,306</td><td>2,104,815</td><td>2,118,679</td><td>2,118,344</td><td>2,126,769</td><td>2,118,519</td><td>1,045,113</td><td>1,042,838</td><td>1,043,203</td><td>1,046,373</td><td>1,055,302</td><td>1,056,240</td><td>1,061,591</td><td>1,058,706</td><td>1,063,008</td><td>1,059,086</td><td>1,057,103</td><td>1,058,442</td><td>1,063,377</td><td>1,062,104</td><td>1,065,178</td><td>1,059,813</td></tr><tr><th scope="row">06 Cantabria</th><td>580,295</td><td>582,206</td><td>585,179</td><td>588,656</td><td>591,888</td><td>593,861</td><td>593,121</td><td>592,250</td><td>281,808</td><td>282,988</td><td>284,788</td><td>286,782</td><td>288,643</td><td>289,999</td><td>289,872</td><td>289,931</td><td>298,487</td><td>299,218</td><td>300,391</td><td>301,874</td><td>303,245</td><td>303,862</td><td>303,249</td><td>302,319</td></tr><tr><th scope="row">07 Castilla y León</th><td>2,425,801</td><td>2,447,519</td><td>2,472,052</td><td>2,494,790</td><td>2,519,875</td><td>2,546,078</td><td>2,558,463</td><td>2,559,515</td><td>1,195,251</td><td>1,206,775</td><td>1,219,616</td><td>1,232,250</td><td>1,246,377</td><td>1,261,141</td><td>1,267,671</td><td>1,268,860</td><td>1,230,550</td><td>1,240,744</td><td>1,252,436</td><td>1,262,540</td><td>1,273,498</td><td>1,284,937</td><td>1,290,792</td><td>1,290,655</td></tr><tr><th scope="row">08 Castilla-La Mancha</th><td>2,031,479</td><td>2,041,631</td><td>2,059,191</td><td>2,078,611</td><td>2,100,998</td><td>2,121,888</td><td>2,115,334</td><td>2,098,373</td><td>1,016,761</td><td>1,022,722</td><td>1,032,673</td><td>1,043,880</td><td>1,056,960</td><td>1,069,648</td><td>1,066,598</td><td>1,059,149</td><td>1,014,718</td><td>1,018,909</td><td>1,026,518</td><td>1,034,731</td><td>1,044,038</td><td>1,052,240</td><td>1,048,736</td><td>1,039,224</td></tr><tr><th scope="row">09 Cataluña</th><td>7,555,830</td><td>7,522,596</td><td>7,508,106</td><td>7,518,903</td><td>7,553,650</td><td>7,570,908</td><td>7,539,618</td><td>7,512,381</td><td>3,710,200</td><td>3,697,368</td><td>3,691,745</td><td>3,701,740</td><td>3,725,318</td><td>3,741,628</td><td>3,732,196</td><td>3,724,515</td><td>3,845,630</td><td>3,825,228</td><td>3,816,361</td><td>3,817,163</td><td>3,828,332</td><td>3,829,280</td><td>3,807,422</td><td>3,787,866</td></tr><tr><th scope="row">10 Comunitat Valenciana</th><td>4,941,509</td><td>4,959,968</td><td>4,980,689</td><td>5,004,844</td><td>5,113,815</td><td>5,129,266</td><td>5,117,190</td><td>5,111,706</td><td>2,436,203</td><td>2,448,748</td><td>2,460,805</td><td>2,475,081</td><td>2,534,539</td><td>2,546,404</td><td>2,541,780</td><td>2,542,949</td><td>2,505,306</td><td>2,511,220</td><td>2,519,884</td><td>2,529,763</td><td>2,579,276</td><td>2,582,862</td><td>2,575,410</td><td>2,568,757</td></tr><tr><th scope="row">11 Extremadura</th><td>1,079,920</td><td>1,087,778</td><td>1,092,997</td><td>1,099,632</td><td>1,104,004</td><td>1,108,130</td><td>1,109,367</td><td>1,107,220</td><td>535,060</td><td>539,239</td><td>542,078</td><td>545,616</td><td>548,054</td><td>550,324</td><td>550,864</td><td>549,721</td><td>544,860</td><td>548,539</td><td>550,919</td><td>554,016</td><td>555,950</td><td>557,806</td><td>558,503</td><td>557,499</td></tr><tr><th scope="row">12 Galicia</th><td>2,708,339</td><td>2,718,525</td><td>2,732,347</td><td>2,748,695</td><td>2,765,940</td><td>2,781,498</td><td>2,795,422</td><td>2,797,653</td><td>1,304,392</td><td>1,309,809</td><td>1,317,054</td><td>1,325,657</td><td>1,335,122</td><td>1,343,328</td><td>1,349,591</td><td>1,350,547</td><td>1,403,947</td><td>1,408,716</td><td>1,415,293</td><td>1,423,038</td><td>1,430,818</td><td>1,438,170</td><td>1,445,831</td><td>1,447,106</td></tr><tr><th scope="row">13 Madrid, Comunidad de</th><td>6,507,184</td><td>6,466,996</td><td>6,436,996</td><td>6,454,440</td><td>6,495,551</td><td>6,498,560</td><td>6,489,680</td><td>6,458,684</td><td>3,115,522</td><td>3,098,631</td><td>3,087,022</td><td>3,099,641</td><td>3,123,724</td><td>3,130,241</td><td>3,132,844</td><td>3,124,438</td><td>3,391,662</td><td>3,368,365</td><td>3,349,974</td><td>3,354,799</td><td>3,371,827</td><td>3,368,319</td><td>3,356,836</td><td>3,334,246</td></tr><tr><th scope="row">14 Murcia, Región de</th><td>1,470,273</td><td>1,464,847</td><td>1,467,288</td><td>1,466,818</td><td>1,472,049</td><td>1,474,449</td><td>1,470,069</td><td>1,461,979</td><td>736,238</td><td>733,555</td><td>735,434</td><td>735,889</td><td>739,842</td><td>742,727</td><td>741,581</td><td>738,627</td><td>734,035</td><td>731,292</td><td>731,854</td><td>730,929</td><td>732,207</td><td>731,722</td><td>728,488</td><td>723,352</td></tr><tr><th scope="row">15 Navarra, Comunidad Foral de</th><td>643,234</td><td>640,647</td><td>640,476</td><td>640,790</td><td>644,477</td><td>644,566</td><td>642,051</td><td>636,924</td><td>318,671</td><td>317,840</td><td>317,885</td><td>318,486</td><td>320,933</td><td>321,453</td><td>320,656</td><td>318,423</td><td>324,563</td><td>322,807</td><td>322,591</td><td>322,304</td><td>323,544</td><td>323,113</td><td>321,395</td><td>318,501</td></tr><tr><th scope="row">16 País Vasco</th><td>2,194,158</td><td>2,189,534</td><td>2,189,257</td><td>2,188,985</td><td>2,191,682</td><td>2,193,093</td><td>2,184,606</td><td>2,178,339</td><td>1,066,905</td><td>1,065,580</td><td>1,065,925</td><td>1,066,369</td><td>1,068,746</td><td>1,070,438</td><td>1,066,872</td><td>1,064,708</td><td>1,127,253</td><td>1,123,954</td><td>1,123,332</td><td>1,122,616</td><td>1,122,936</td><td>1,122,655</td><td>1,117,734</td><td>1,113,631</td></tr><tr><th scope="row">17 Rioja, La</th><td>315,381</td><td>315,794</td><td>317,053</td><td>319,002</td><td>322,027</td><td>323,609</td><td>322,955</td><td>322,415</td><td>155,508</td><td>155,969</td><td>156,733</td><td>158,090</td><td>160,159</td><td>161,574</td><td>161,582</td><td>161,884</td><td>159,873</td><td>159,825</td><td>160,320</td><td>160,912</td><td>161,868</td><td>162,035</td><td>161,373</td><td>160,531</td></tr><tr><th scope="row">18 Ceuta</th><td>84,959</td><td>84,519</td><td>84,263</td><td>84,963</td><td>84,180</td><td>84,018</td><td>82,376</td><td>80,579</td><td>43,034</td><td>42,846</td><td>42,757</td><td>43,354</td><td>43,060</td><td>42,948</td><td>42,165</td><td>41,269</td><td>41,925</td><td>41,673</td><td>41,506</td><td>41,609</td><td>41,120</td><td>41,070</td><td>40,211</td><td>39,310</td></tr><tr><th scope="row">19 Melilla</th><td>86,120</td><td>86,026</td><td>85,584</td><td>84,509</td><td>83,679</td><td>80,802</td><td>78,476</td><td>76,034</td><td>43,629</td><td>43,768</td><td>43,593</td><td>43,075</td><td>43,017</td><td>41,569</td><td>40,256</td><td>38,819</td><td>42,491</td><td>42,258</td><td>41,991</td><td>41,434</td><td>40,662</td><td>39,233</td><td>38,220</td><td>37,215</td></tr></tbody></table><img src="../imagenes/R3.jpg" style="display: block; margin: 50px auto;"></body></html>

diff --git a/practicas/p1/poblacion/funciones.py b/practicas/p1/poblacion/funciones.py
@@ -10,6 +10,45 @@ from lxml import html
 import csv
 from decimal import Decimal, ROUND_HALF_UP
 
+"""
+Esta función toma una cadena de texto y elimina todos los dígitos numéricos,
+dejando solo los caracteres no numéricos.
+
+Args:
+    cadena (str): La cadena de texto que se va a limpiar de dígitos.
+
+Returns:
+    str: La cadena de texto resultante sin dígitos numéricos.
+"""
+
+
+def limpiar_digitos(cadena):
+    # Inicializamos una cadena vacía para almacenar el resultado
+    resultado = ""
+
+    # Iteramos a través de cada carácter en la cadena
+    for caracter in cadena:
+        # Verificamos si el carácter no es un dígito
+        if not caracter.isdigit():
+            # Si no es un dígito, lo agregamos al resultado
+            resultado += caracter
+
+    return resultado
+
+
+"""
+Esta función toma un número y opcionalmente una cadena de formato de precisión
+y devuelve el número formateado con separadores de miles.
+
+Args:
+    numero (float): El número que se formateará.
+    precision (str, opcional): La cadena de formato de precisión. 
+    Por defecto, '%.2f'.
+
+Returns:
+    str: El número formateado con separadores de miles.
+"""
+
 
 def separador_miles(numero, precision='%.2f'):
     # Configuramos la localización para separador de miles
@@ -17,11 +56,35 @@ def separador_miles(numero, precision='%.2f'):
     return locale.format_string(precision, numero, grouping=True)
 
 
+"""
+Esta función toma un número y un número de decimales y redondea el número al 
+número de decimales especificado.
+
+Args:
+    numero (float): El número que se redondeará.
+    decimales (int, opcional): El número de decimales al que se redondeará el 
+    número. Por defecto, 2.
+
+Returns:
+    Decimal: El número redondeado.
+"""
+
+
 def redondear_numero(numero, decimales=2):
     return Decimal(numero).quantize(Decimal('1e-{0}'.format(decimales)), rounding=ROUND_HALF_UP)
 
 
+"""
+Esta función limpia un archivo CSV de poblaciones y agrega un encabezado.
+
+Args:
+    csv_nombre (str): El nombre del archivo CSV a limpiar y al que se le 
+    agregará un encabezado.
+"""
+
+
 def limpiar_csv_poblaciones(csv_nombre):
+
     # Leemos el archivo CSV inicial, lo limpiamos y agregamos encabezado
     fichero_inicial = open(
         './entradas/poblacionProvinciasHM2010-17.csv', 'r', encoding='utf8')
@@ -45,6 +108,15 @@ def limpiar_csv_poblaciones(csv_nombre):
     fichero_final.close()
 
 
+"""
+Esta función obtiene un diccionario que asocia comunidades autónomas con sus 
+provincias correspondientes.
+
+Returns:
+    dict: Un diccionario que asocia comunidades autónomas con provincias.
+"""
+
+
 def obtener_ca_provincias():
     # Creamos un diccionario en el que almacenaremos las comunidades autónomas
     # como clave y una lista de provincias asociadas
@@ -66,6 +138,21 @@ def obtener_ca_provincias():
         comunidades_dict[provincia] = comunidad_autonoma
 
     return comunidades_dict
+
+
+"""
+Esta función calcula la población total de cada comunidad autónoma a partir de 
+un archivo CSV de poblaciones y un diccionario de asociación de comunidades autónomas con provincias.
+
+Args:
+    comunidades (dict): Un diccionario que asocia comunidades autónomas con 
+    provincias.
+    datos_csv (csv.DictReader): El archivo CSV de poblaciones.
+
+Returns:
+    dict: Un diccionario que asocia comunidades autónomas con la población 
+    total de cada año.
+"""
 
 
 def obtener_poblaciones_ccaa(comunidades, datos_csv):
@@ -94,6 +181,18 @@ def obtener_poblaciones_ccaa(comunidades, datos_csv):
 
 
 def obtener_lista_ccaa_ordenada(poblaciones_ccaa):
+    """
+    Esta función devuelve una lista de comunidades autónomas ordenadas por su 
+    población total.
+
+    Args:
+        poblaciones_ccaa (dict): Un diccionario que asocia comunidades 
+        autónomas con la población total de cada año.
+
+    Returns:
+        list: Una lista de comunidades autónomas ordenadas por su población 
+        total.
+    """
     poblaciones_sorted = sorted(
         poblaciones_ccaa,
         key=lambda x: sum(
@@ -105,6 +204,14 @@ def obtener_lista_ccaa_ordenada(poblaciones_ccaa):
 
 
 def cargar_y_procesar_datos():
+    """
+    Esta función carga y procesa los datos de población y devuelve un 
+    diccionario que asocia comunidades autónomas con la población total.
+
+    Returns:
+        dict: Un diccionario que asocia comunidades autónomas con la población 
+        total.
+    """
     # Obtenemos las comunidades autónomas y provincias
     comunidades = obtener_ca_provincias()
 
@@ -120,6 +227,15 @@ def cargar_y_procesar_datos():
 
 
 def insertar_imagen_en_html(ruta_html, ruta_imagen):
+    """
+    Esta función inserta una imagen en un archivo HTML.
+
+    Args:
+        ruta_html (str): La ruta al archivo HTML en el que se insertará la 
+        imagen.
+        ruta_imagen (str): La ruta a la imagen que se insertará en el archivo 
+        HTML.
+    """
     # Insertar la imagen en el archivo HTML
     contenido_html = ''
 
@@ -128,9 +244,9 @@ def insertar_imagen_en_html(ruta_html, ruta_imagen):
 
         # Eliminar la imagen anterior si existe
         contenido_html = contenido_html.replace('</body></html>', '')
-        if f'<img src="{ruta_imagen}" style="display: block; margin: 0 auto;">' not in contenido_html:
+        if f'<img src="{ruta_imagen}" style="display: block; margin: 50px auto;">' not in contenido_html:
             # Insertar la nueva imagen
-            contenido_html += f'<img src="{ruta_imagen}" style="display: block; margin: 0 auto;">'
+            contenido_html += f'<img src="{ruta_imagen}" style="display: block; margin: 50px auto;">'
         contenido_html += '</body></html>'
 
     with open(ruta_html, 'w') as archivo_html:

diff --git a/practicas/p1/ayudas/ejemploCSV-dictUTF8.py b/practicas/p1/ayudas/ejemploCSV-dictUTF8.py
@@ -29,38 +29,13 @@ ficheroInicial.close()
 
 print("\nFichero leido inicial es\n",cadenaPob)
 
-primero=cadenaPob.find("Total")
-ultimo=cadenaPob.find("Notas")
+primero=cadenaPob.find("Provincia")
+ultimo=cadenaPob.rfind("2010")
 
 cadenaFinal=cadenaPob[primero:ultimo]
-
-print("\nFichero leido final es\n",cadenaFinal)
-
-cabecera="Provincia;H2017;H2016;H2015;M2017;M2016;M2015"
-
-ficheroFinal=open("poblacionPruebaFinal.csv", "w",encoding="utf8")
-
-ficheroFinal.write(cabecera+'\n'+cadenaFinal)
-
-ficheroFinal.close()
-
-print("\n------------------------------------------------------------\n")
-# Leer el archivo 'poblacionPruebaFinal.csv' con reader() y 
-# mostrar todos los registros, uno a uno:
-print("Primer caso: se muestra cada linea como una lista de valores")
-with open('poblacionPruebaFinal.csv', encoding="utf8") as csvarchivo:
-    entrada = csv.reader(csvarchivo, delimiter=';')
-    for reg in entrada:
-        print(reg)  # Cada línea se muestra como una lista de valores
+#print(cadenaPob)
 
 
-print("\n------------------------------------------------------------\n")
-# en este segundo caso se lee como una serie de diccionarios
-print("Segundo caso: se muestra cada linea como un diccionario")
-with open('poblacionPruebaFinal.csv', encoding="utf8") as csvarchivo:
-    poblacionDict = csv.DictReader(csvarchivo, delimiter=';')     
-    for regD in poblacionDict:
-        print(regD)
         
       
 

diff --git a/practicas/p1/poblacion/R5.py b/practicas/p1/poblacion/R5.py
@@ -36,7 +36,9 @@ def generar_grafico_poblacion(poblaciones_comunidades):
 
     años = range(2010, 2018)
     plt.xticks(range(len(años)), años)
-    plt.legend(comunidad_autonoma, loc='right',
+    comunidad_autonoma_cleaned = [
+        funciones.limpiar_digitos(ca) for ca in comunidad_autonoma]
+    plt.legend(comunidad_autonoma_cleaned, loc='right',
                bbox_to_anchor=(1.39, 0.5), prop={'size': 17})
 
     plt.savefig('./imagenes/R5.jpg',  bbox_inches='tight')

diff --git a/practicas/p1/poblacion/R4.py b/practicas/p1/poblacion/R4.py
@@ -124,7 +124,7 @@ def ejecutar():
 
     for ca in variaciones:
         cadena_html += '<tr><th scope="row">' + \
-            ca + '</th>'
+            funciones.limpiar_digitos(ca) + '</th>'
         for campo in cabecera:
             cadena_html += '<td>' + \
                 funciones.separador_miles(
